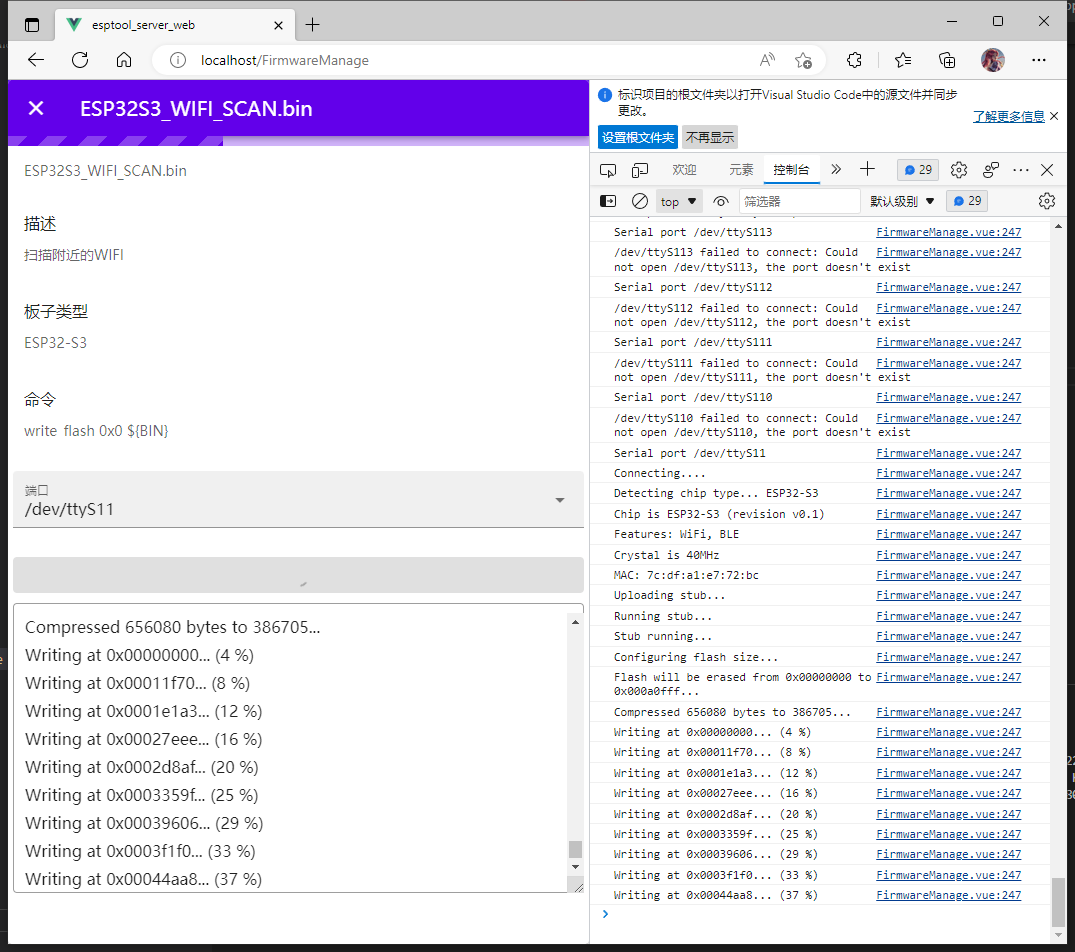
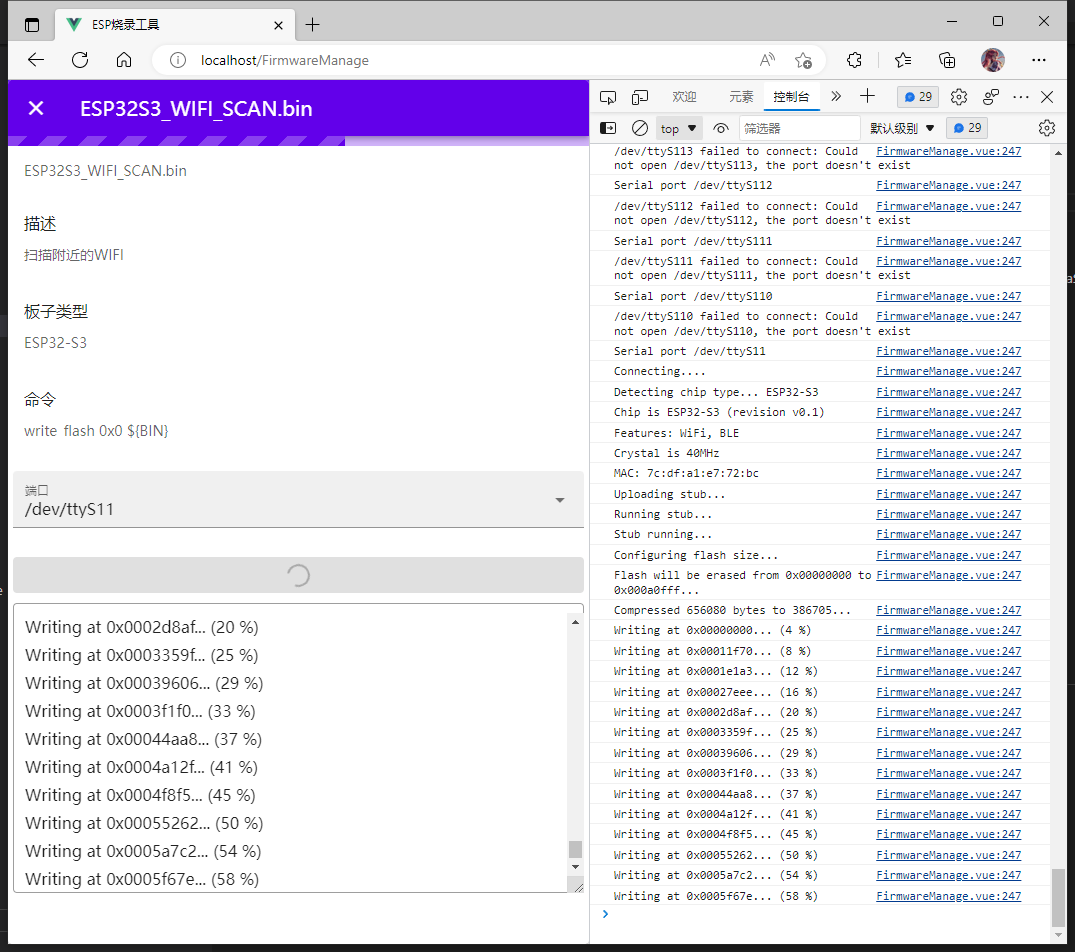
1

diff --git a/esptool_server_web/public/index.html b/esptool_server_web/public/index.html
@@ -5,7 +5,7 @@
     <meta http-equiv="X-UA-Compatible" content="IE=edge">
     <meta name="viewport" content="width=device-width,initial-scale=1.0">
     <link rel="icon" href="<%= BASE_URL %>favicon.ico">
-    <title><%= htmlWebpackPlugin.options.title %></title>
+    <title>ESP烧录工具</title>
   </head>
   <body>
     <noscript>
